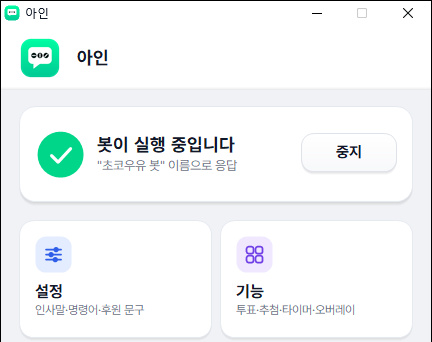
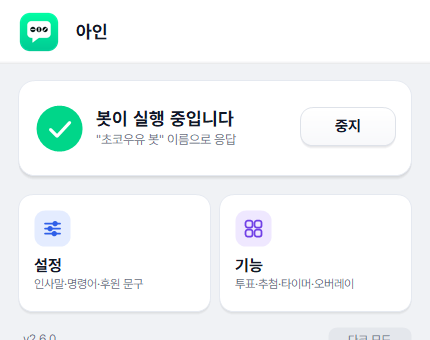
설치 가이드: 아인 창 사진을 2.6 실제 창으로(봇 이름은 예시로 다시 그림), Client Secret 은 [보기] 뒤 끝까지 끌어 복사한다는 한 문장

diff --git a/guide/install/index.html b/guide/install/index.html
@@ -224,7 +224,7 @@
         <ol>
           <li>초기 설정 마지막 화면에서 "컴퓨터를 켜면 아인과 봇을 자동으로 켜기"를 켠 채 [확인하고 창 닫기]를 누릅니다.</li>
           <li>아인 창의 [시작]을 누릅니다.
-            <img class="shot" src="/img/shots/install-app-running.png" width="432" height="342" alt="아인 창 — 봇이 실행 중입니다 상태 카드와 [중지] 버튼" loading="lazy">
+            <img class="shot" src="/img/shots/install-app-running.png?v=261" width="430" height="340" alt="아인 창 — 봇이 실행 중입니다 상태 카드와 [중지] 버튼" loading="lazy">
           </li>
           <li>방송을 켜고 채팅에 <code class="copy">!출첵</code>을 칩니다. 봇이 답하면 끝입니다.</li>
         </ol>
@@ -258,7 +258,7 @@
           <li>API Scopes에서 유저 조회, 채팅 메시지 조회, 채팅 메시지 쓰기, 후원 조회 4개를 체크합니다.
             <img class="shot" src="/img/shots/install-devcenter-scopes.png" width="234" height="372" alt="API scope 선택 창의 목록 — 유저 조회부터 후원 조회까지" loading="lazy">
           </li>
-          <li>등록 뒤 나오는 Client ID와 Client Secret을 아인 화면의 칸에 붙여넣습니다.
+          <li>등록 뒤 나오는 Client ID와 Client Secret을 아인 화면의 칸에 붙여넣습니다. Secret은 눈 모양 [보기]를 누르면 보이는데, 칸보다 길어서 끝까지 끌어 모두 골라 복사합니다.
             <img class="shot" src="/img/shots/install-devcenter-appinfo.png" width="514" height="98" alt="등록 뒤 애플리케이션 정보 화면의 클라이언트 ID와 Secret(예시 값)" loading="lazy">
           </li>
         </ol>
